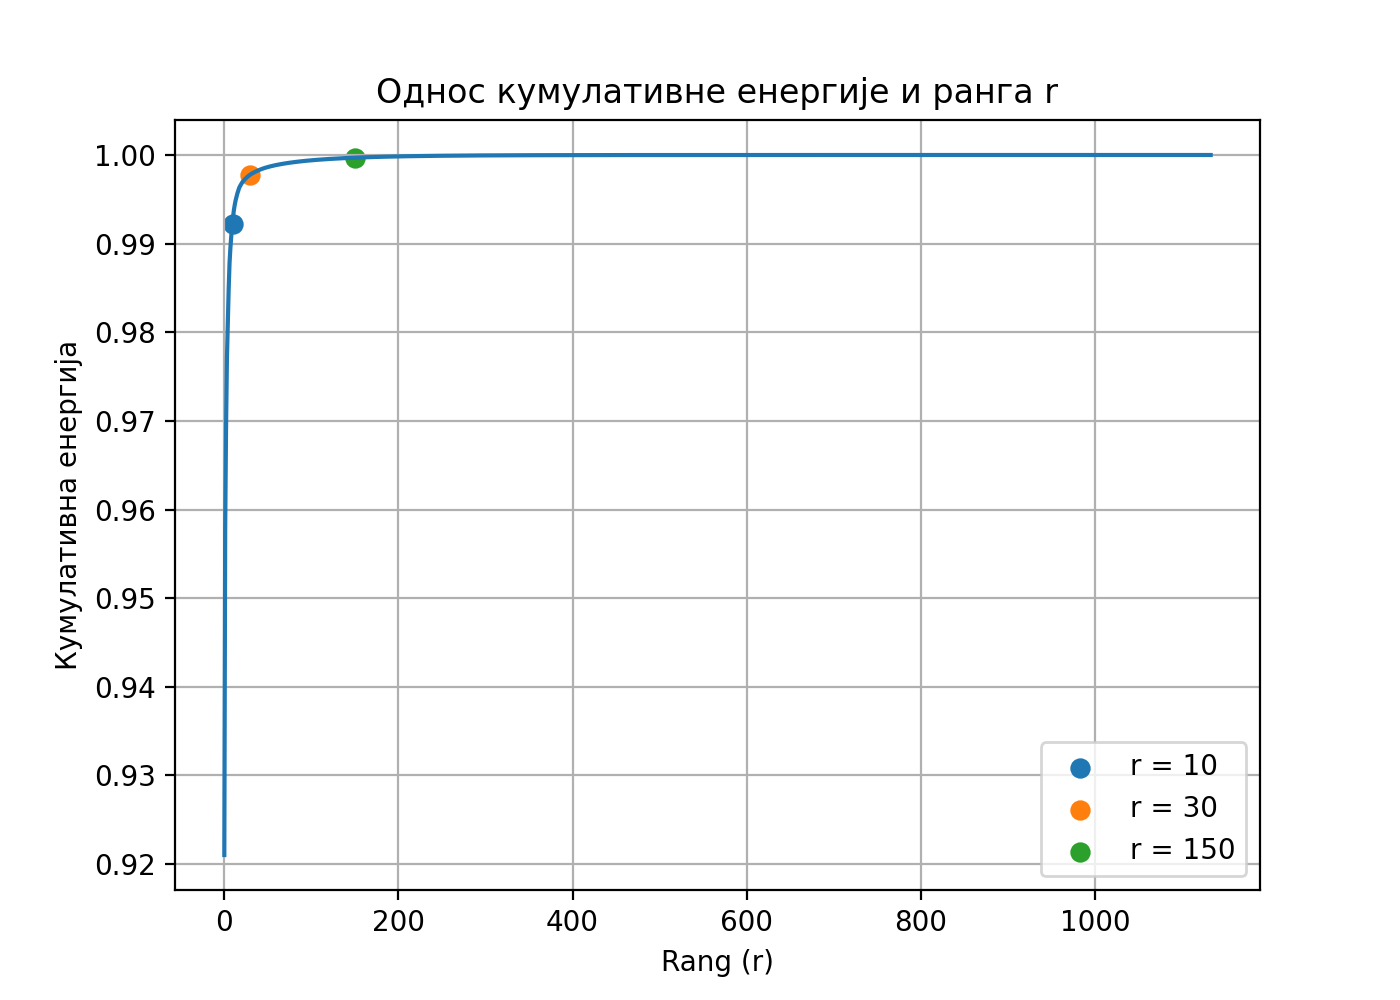
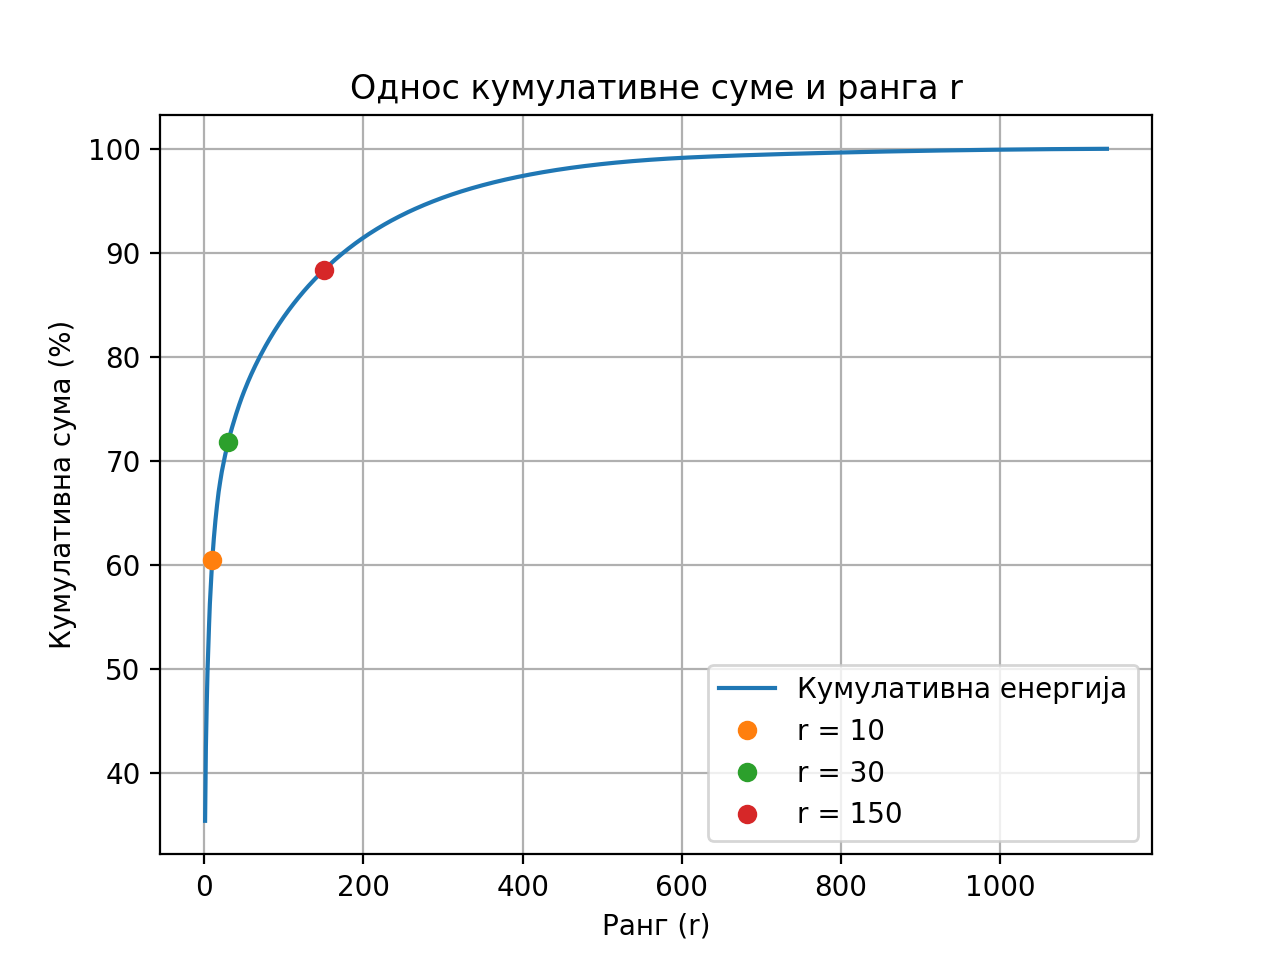
Refactor cumulative energy calculation to use cumulative sum and update visualization

diff --git a/svd-compression.py b/svd-compression.py
@@ -54,17 +54,15 @@ plt.show()
 
 # Cumulative sum
 ##############################################################
-cum_energy = np.cumsum(S**2) / np.sum(S**2)
+cum_sum = np.cumsum(S) / np.sum(S)
+plt.plot(np.arange(1, len(S) + 1), cum_sum * 100, label="Кумулативна енергија")
 
-plt.figure(figsize=(7, 5))
-plt.plot(
-    cum_energy,
-)
-for r in r_vals:
-    plt.scatter(r, cum_energy[r - 1], s=40, label=f"r = {r}")
-plt.title("Однос кумулативне енергије и ранга r")
-plt.xlabel("Rang (r)")
-plt.ylabel("Кумулативна енергија")
+for r in [10, 30, 150]:
+    plt.plot(r, cum_sum[r - 1] * 100, "o", label=f"r = {r}")
+
+plt.xlabel("Ранг (r)")
+plt.ylabel("Кумулативна сума (%)")
+plt.title("Однос кумулативне суме и ранга r")
 plt.legend()
 plt.grid(True)
 plt.savefig("results/cum_sum.png", dpi=200)
